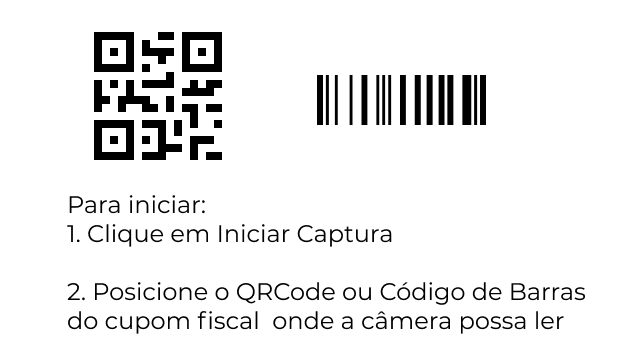
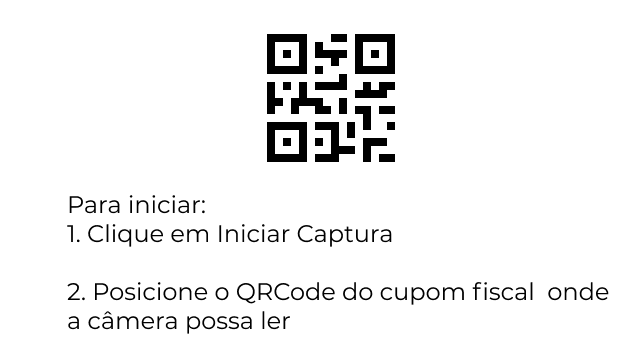
pequenas correcoes na captura de video

Changed region(s): [[0.4062, 0.0917, 0.7812, 0.4583], [0.125, 0.0917, 0.3438, 0.4583], [0.0938, 0.7639, 0.9688, 0.9167]]

diff --git a/task_video.py b/task_video.py
@@ -4,7 +4,9 @@ from PyQt5.Qt import Qt
 from subscriberqt import QtSubscriber
 from imutils.video import VideoStream
 from pyzbar import pyzbar
-import imutils
+from pyzbar.pyzbar import ZBarSymbol
+from datetime import datetime
+#import imutils
 import time
 import cv2
 
@@ -39,7 +41,10 @@ class TaskVideo(QtSubscriber):
   
 
     def run(self):
-        vs = VideoStream(src=0).start()
+        print('iniciando...' + str(datetime.now()))
+        #vs = VideoStream(src=0).start()
+        vs = cv2.VideoCapture(0)
+        print('iniciado...' + str(datetime.now()))
         #time.sleep(2.0)
         
         self.sig_start.emit(1)
@@ -48,9 +53,17 @@ class TaskVideo(QtSubscriber):
 
             try:
            
-                frame = vs.read()
-                frame = imutils.resize(frame, width=640, height=300)
-                barcodes = pyzbar.decode(frame)
+                rect, frame = vs.read()
+
+                if (not rect):
+                    print('not react')
+                    vs.release()
+                    self.sig_stop.emit(1)	
+                    self.quit()
+                    break
+
+                #frame = imutils.resize(frame, width=640, height=300)
+                barcodes = pyzbar.decode(frame, symbols=[ZBarSymbol.QRCODE])
                 
                 rgbImage = cv2.cvtColor(frame, cv2.COLOR_BGR2RGB)
                 height, width, channel = rgbImage.shape
@@ -61,7 +74,11 @@ class TaskVideo(QtSubscriber):
 
                 for barcode in barcodes:
                     
-
+                    #despreza leitura do código de 
+                    #if (str(barcode.type) != 'QRCODE'):
+                        #print('nao qrcode')
+                        #continue
+                    
                     try:
                         barcodeData = barcode.data.decode("utf-8")		            
                         chave = str(barcodeData).split("|")[0].replace("CFe","")
@@ -87,15 +104,17 @@ class TaskVideo(QtSubscriber):
                         except Exception as err2:
                             print('ERROR on trying to draw rectangle: ' + repr(err2))
                         
-                        print('Chave de Acesso: ' + str(barcode.type) + " - " + chave)
+                        #print('Chave de Acesso: ' + str(barcode.type) + " - " + chave)
                     except Exception as err  : 
                         print('ERROR: ' + repr(err))
+                        break
 
                 if (self.cancelar):
                     print("Finalizando captura de vídeo...")
                     #cv2.close()
                     #cv2.destroyAllWindows()
-                    vs.stop()
+                    #vs.stop()
+                    vs.release()
                     #self.terminate()
                     self.sig_stop.emit(1)	
                     self.quit()
